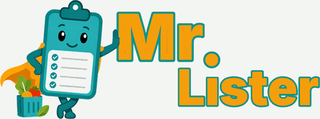
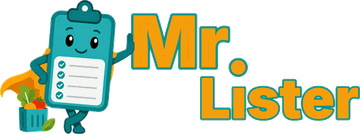
Use transparent Mr. Lister lockup on legal pages.

diff --git a/docs/privacy/index.html b/docs/privacy/index.html
@@ -67,7 +67,7 @@
 <body>
   <main>
     <div class="brand">
-      <img src="../assets/mr_lister_lockup.png" width="240" height="89" alt="Mr. Lister" />
+      <img src="../assets/mr_lister_lockup.png?v=2" width="240" height="89" alt="Mr. Lister" />
       <p class="tag">Your Grocery Guardian</p>
     </div>
     <h1>Privacy Policy</h1>

diff --git a/docs/terms/index.html b/docs/terms/index.html
@@ -67,7 +67,7 @@
 <body>
   <main>
     <div class="brand">
-      <img src="../assets/mr_lister_lockup.png" width="240" height="89" alt="Mr. Lister" />
+      <img src="../assets/mr_lister_lockup.png?v=2" width="240" height="89" alt="Mr. Lister" />
       <p class="tag">Your Grocery Guardian</p>
     </div>
     <h1>Terms of Use</h1>
